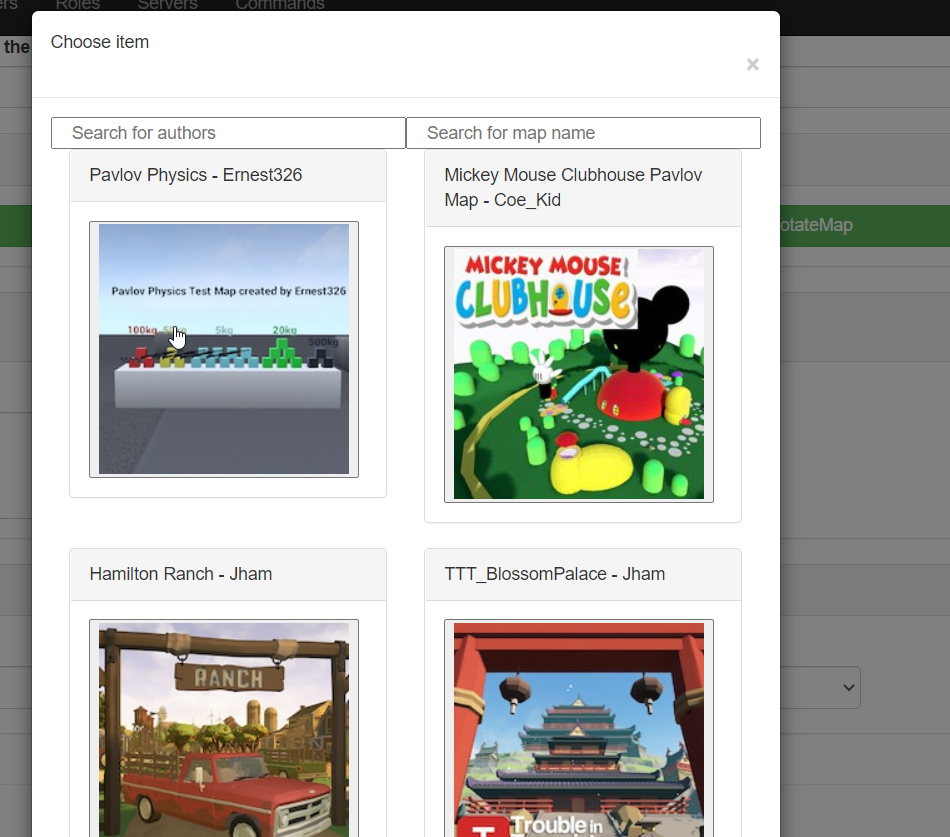
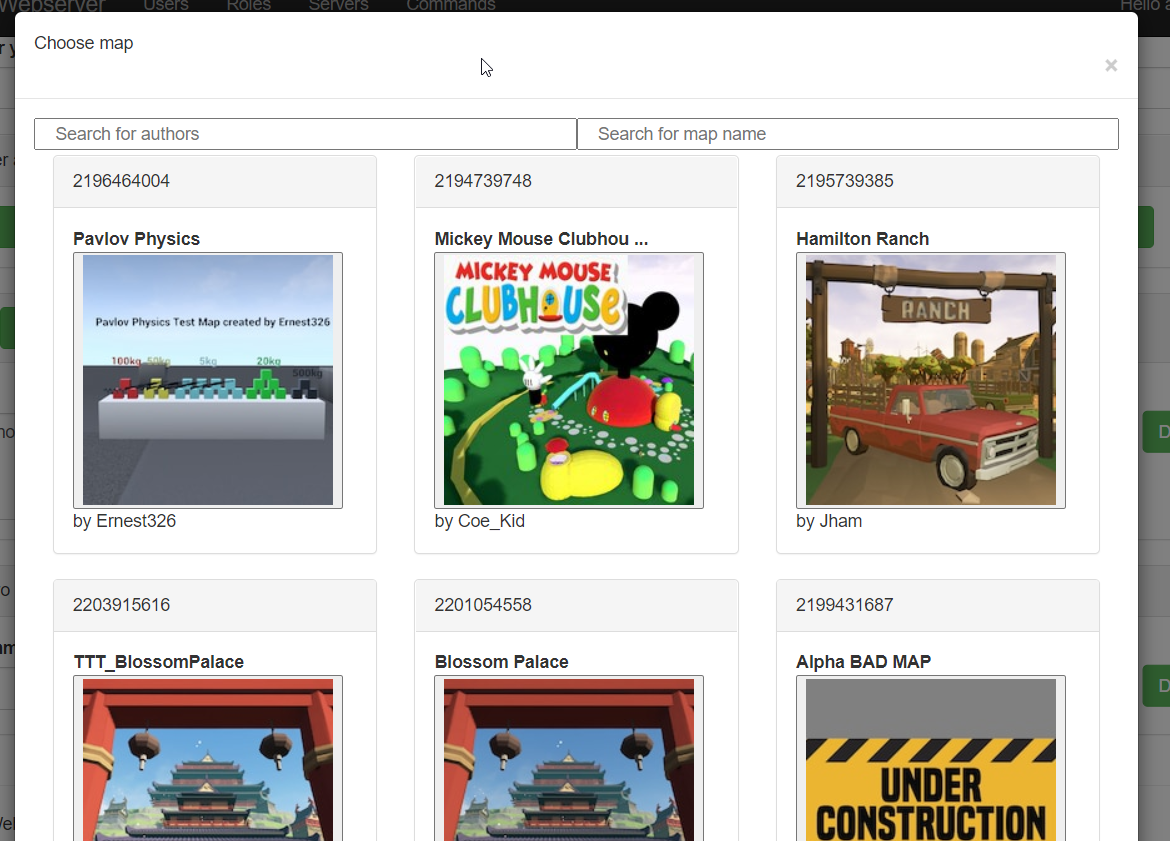
* made the map selector usable

diff --git a/wwwroot/js/rcon.js b/wwwroot/js/rcon.js
@@ -64,11 +64,11 @@ function search(searchInput,attr)
     $( ".mapPanel" ).each(function( index ) {
         if($(this).attr(attr).toLowerCase().indexOf(searchInput)>=0)
         {
-            $(this).show();
+            $(this).parent().show();
         }
         else{
 
-            $(this).hide();
+            $(this).parent().hide();
         }
 
     });
@@ -335,6 +335,7 @@ function setValueFields(playerCommands,twoValueCommands,documentReady = false)
         $("#TwoValueInputs").find("#PlayerValueTwoParent").find("input").remove();
         $("#TwoValueInputs").find("#PlayerValueTwoParent").find("select").remove();
         $("#TwoValueInputs").find("#PlayerValueTwoParent").find("a").remove();
+        $("#TwoValueInputs").find(".valueFieldButtons").remove();
     }
     ValueFieldPartialView(playerCommands,twoValueCommands,$("#TwoValueCommands :selected").val(),false,false,function(data){
         $("#TwoValueInputs").find("#PlayerValueTwoParent").append(data);

diff --git a/Services/RconService.cs b/Services/RconService.cs
@@ -344,6 +344,13 @@ namespace PavlovRconWebserver.Services
                            (new Regex(@"(?<=https://steamuserimages)(.*)(?=Letterbox)").Match(note.OuterHtml).Value) +
                            "Letterbox&imcolor=%23000000&letterbox=true";
 
+            if (map.ImageUrl=="https://steamuserimages"+"Letterbox&imcolor=%23000000&letterbox=true")
+            {
+                map.ImageUrl = "https://community" +
+                    (new Regex(@"(?<=https://community)(.*)(?=steam_workshop_default_image.png)").Match(note.OuterHtml).Value) +
+                    "steam_workshop_default_image.png";
+                
+            }
             var correctOuter = note.OuterHtml.Replace("\"","'");
             map.Name = new Regex(@"(?<=<div class='workshopItemTitle ellipsis'>)(.*)(?=</div></a>)").Match(correctOuter).Value;
             map.Author  = new Regex(@"(?<=/?appid=555160'>)(.*)(?=</a></div>)").Match(correctOuter).Value;
